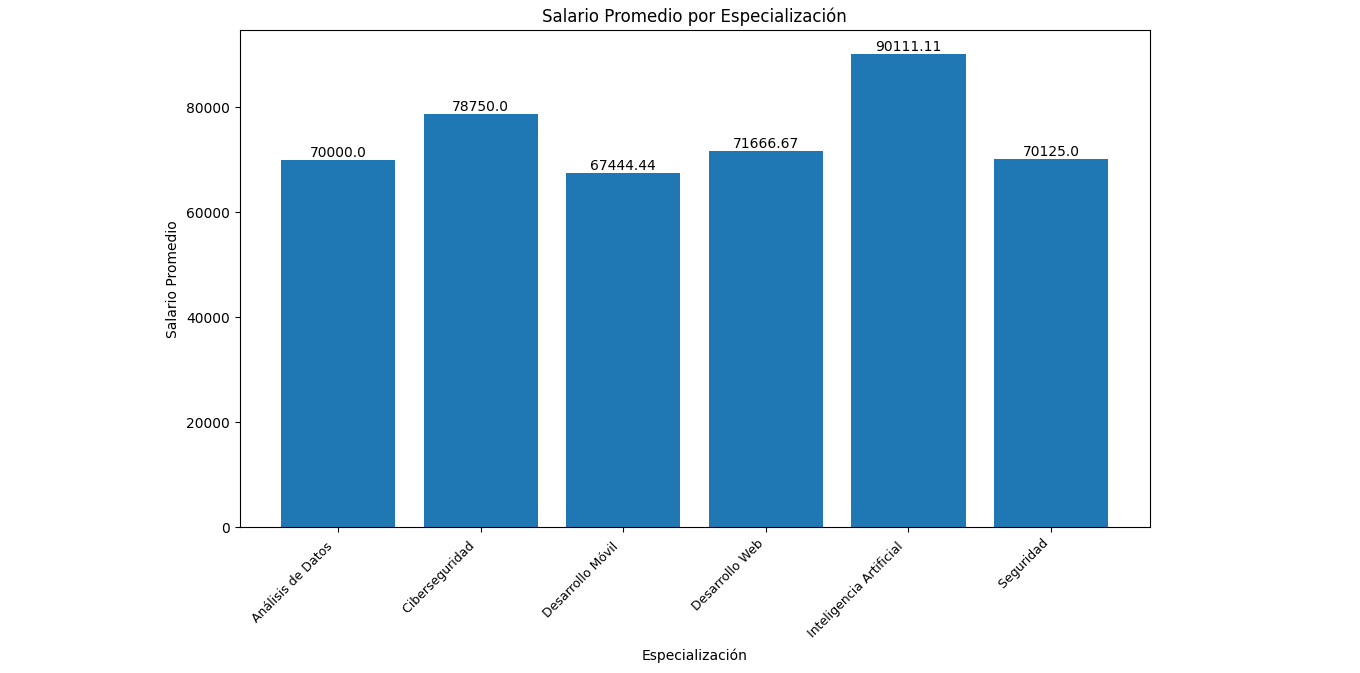
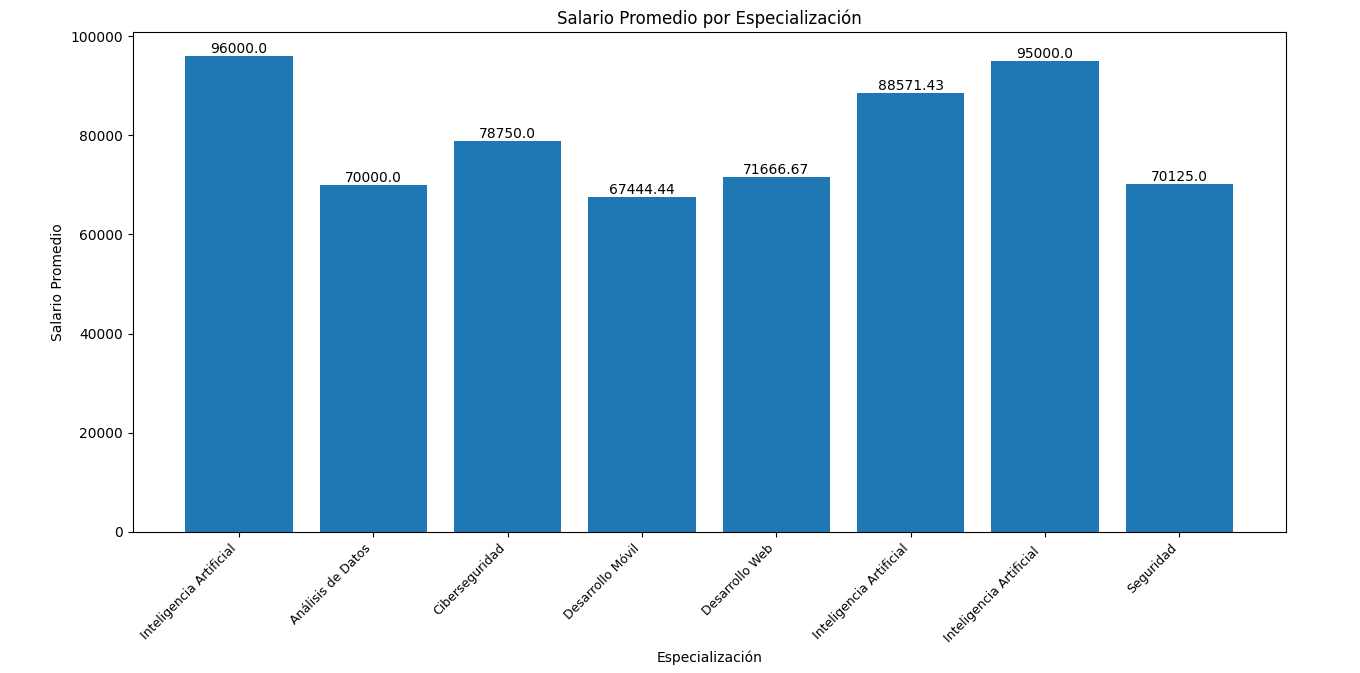
Nuevos análisis

diff --git a/graficobarras_salariolenguaje.py b/graficobarras_salariolenguaje.py
@@ -5,7 +5,7 @@ import matplotlib.pyplot as plt
 dataset = pd.read_excel(r'D:\Isaías\Desktop\3er año - 2023\Probabilidad y Estadística\IntegradorPE\dataset_empleados_limpio.xlsx')
 
 # Agrupar por lenguaje de programación y calcular el salario promedio
-promedio_salario_por_lenguaje = dataset.groupby('Lenguajes_Programacion')['Salario'].mean()
+promedio_salario_por_lenguaje = dataset.groupby('Lenguajes_Programacion_Limpio')['Salario'].mean()
 
 # Crear el gráfico de barras
 bars = plt.bar(promedio_salario_por_lenguaje.index, promedio_salario_por_lenguaje)
@@ -13,7 +13,7 @@ bars = plt.bar(promedio_salario_por_lenguaje.index, promedio_salario_por_lenguaj
 # Etiquetas y título
 plt.xlabel('Lenguaje de Programación')
 plt.ylabel('Salario Promedio')
-plt.title('Salario Promedio por Combinación de lenguajes de programación')
+plt.title('Salario promedio de los grupos de lenguajes de programación')
 
 # Rotar ejes
 plt.xticks(rotation=45, ha='right', fontsize=8)
@@ -21,7 +21,7 @@ plt.xticks(rotation=45, ha='right', fontsize=8)
 # Agregar etiquetas a barras
 for bar in bars:
     yval = bar.get_height()
-    plt.text(bar.get_x() + bar.get_width()/2, yval, round(yval, 2), ha='center', va='bottom', size=6)
+    plt.text(bar.get_x() + bar.get_width()/2, yval, round(yval, 2), ha='center', va='bottom', size=8)
 
 # Mostrar el gráfico
 plt.show()

diff --git a/barras_sala_espe_agrupados.py b/barras_sala_espe_agrupados.py
@@ -1,0 +1,27 @@
+import pandas as pd
+import matplotlib.pyplot as plt
+
+# Nombre del archivo
+dataset = pd.read_excel(r'D:\Isaías\Desktop\3er año - 2023\Probabilidad y Estadística\IntegradorPE\dataset_empleados_limpio.xlsx')
+
+# Agrupar por especialización y calcular el salario promedio
+promedio_salario_por_especializacion = dataset.groupby('Especializacion_Agrupados')['Salario'].mean()
+
+# Crear el gráfico de barras
+bars = plt.bar(promedio_salario_por_especializacion.index, promedio_salario_por_especializacion)
+
+# Etiquetas y título
+plt.xlabel('Especialización')
+plt.ylabel('Salario Promedio')
+plt.title('Salario Promedio por Especialización (2)')
+
+# Rotar ejes
+plt.xticks(rotation=45, ha='right', fontsize=9)
+
+# Agregar etiquetas a barras
+for bar in bars:
+    yval = bar.get_height()
+    plt.text(bar.get_x() + bar.get_width()/2, yval, round(yval, 2), ha='center', va='bottom', size=10)
+
+# Mostrar el gráfico
+plt.show()
